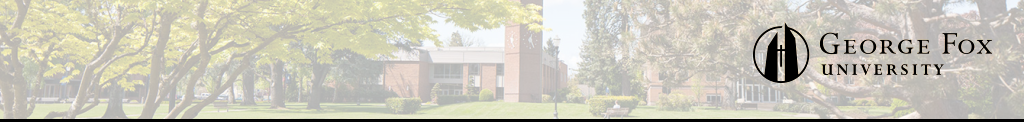
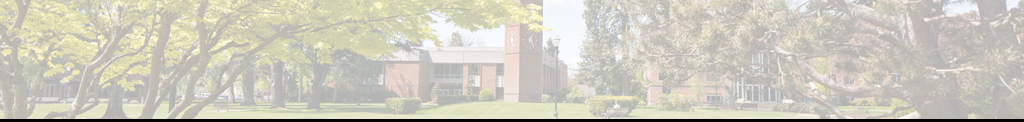
Added play/ to URLs. Updated views.py files to use the PlayDAO object. Made webpage resize better.

Changed region(s): [[0.7188, 0.1967, 0.9688, 0.6885]]

diff --git a/statler_site/templates/play-list-page.html b/statler_site/templates/play-list-page.html
@@ -21,7 +21,7 @@
             // this indentation helps because it looks a bit like html
             $('#play-list').append(
               //the whole list item is a link to the play description page
-              $('<a/>', {href: value.fields.url_title}).append(
+              $('<a/>', {href: 'play/'+value.fields.url_title}).append(
                 $('<li/>').append(
                   $('<h1/>').append(value.fields.title),
                   $('<p/>').append('directed by: ', value.fields.director)
@@ -39,7 +39,8 @@
     
     <div class="page-container">
       <div class="header">
-        <img src="/static/header-image.png">
+        <img class="centered-image" src="/static/header-image.png"/>
+        <img class="logo-overlay" src="/static/gfu-logo.png"/>
         <h1>Ten! Ten! Ten!</h1>
       </div>
       <ol id="play-list" type="1">

diff --git a/statler_site/static/styles.css b/statler_site/static/styles.css
@@ -19,24 +19,35 @@ body {
 .page-container {
   max-width: 1024px;
   margin: auto;
+  overflow: hidden;
 }
 
 .header {
    position: relative;
+   height: 122px;
 }
 
-.header img {
-  /* TODO: make header image scale correctly when page is narrow */
+.centered-image {
+  position: absolute;
+  margin: auto;
+  left: -1000px;
+  right: -1000px;
+}
+
+.logo-overlay {
+  position: absolute;
+  right: 35px;
+  top: 28px;
 }
 
 .header h1 {
-   position: absolute;
-   left: 30px;
-   top: 20px;
-   font-family: "Accord Light SF", "Book Antiqua", serif;
-   font-size: 48pt;
-   font-weight: normal;
-   color: black;
+  position: absolute;
+  left: 30px;
+  top: 20px;
+  font-family: "Accord Light SF", "Book Antiqua", serif;
+  font-size: 48pt;
+  font-weight: normal;
+  color: black;
 }
 
 #description {

diff --git a/statler_site/templates/play-detail-page.html b/statler_site/templates/play-detail-page.html
@@ -32,7 +32,8 @@
     
     <div class="page-container">
       <div class="header">
-        <img src="/static/header-image.png">
+        <img class="centered-image" src="/static/header-image.png">
+        <img class="logo-overlay" src="/static/gfu-logo.png"/>
         <h1></h1>
       </div>
       <div id="description"></div>

diff --git a/statler_api/views.py b/statler_api/views.py
@@ -14,13 +14,13 @@ def getPlayList(request):
     """called when a GET request is sent to /api/play-list/
     returns json of the list of plays
     see https://docs.djangoproject.com/en/1.8/topics/serialization/"""
-    playList = Play.objects.all()
+    playList = PlayDAO.objects.all()
     #TODO: wrap playList in another object to control what fields are sent
     return HttpResponse(serializers.serialize("json", playList))
 
 def getPlayDetail(request, play_id):
     """called when a GET request is sent to /api/play/<play_id>
     returns json for the play"""
-    play = get_object_or_404(Play, url_title=play_id)
+    play = get_object_or_404(PlayDAO, url_title=play_id)
     #TODO: wrap play in another object to control what fields are sent
     return HttpResponse(serializers.serialize("json", [play]))

diff --git a/statler_site/urls.py b/statler_site/urls.py
@@ -7,8 +7,8 @@ urlpatterns = [
     # urls that look like 'health-check/'
     url(r'^health-check/$', views.healthCheck, name='health-check'),
 
-    # urls that look like 'reomeo-and juliet/' for example
-    url(r'^(?P<play_id>[^,/]+)/$', views.getPlayDetailPage, name='play-detail'),
+    # urls that look like 'play/<play_id>/'
+    url(r'^play/(?P<play_id>[^,/]+)/$', views.getPlayDetailPage, name='play-detail'),
     
     # blank urls are forwarded to
     # the views.getPlayListPage function

diff --git a/statler_site/views.py b/statler_site/views.py
@@ -1,6 +1,5 @@
 from django.shortcuts import render, render_to_response
 from django.http import HttpResponse
-from statler_api.models import Play
 
 def healthCheck(request):
     """Returns a string. This shouldn't break. We can use this
